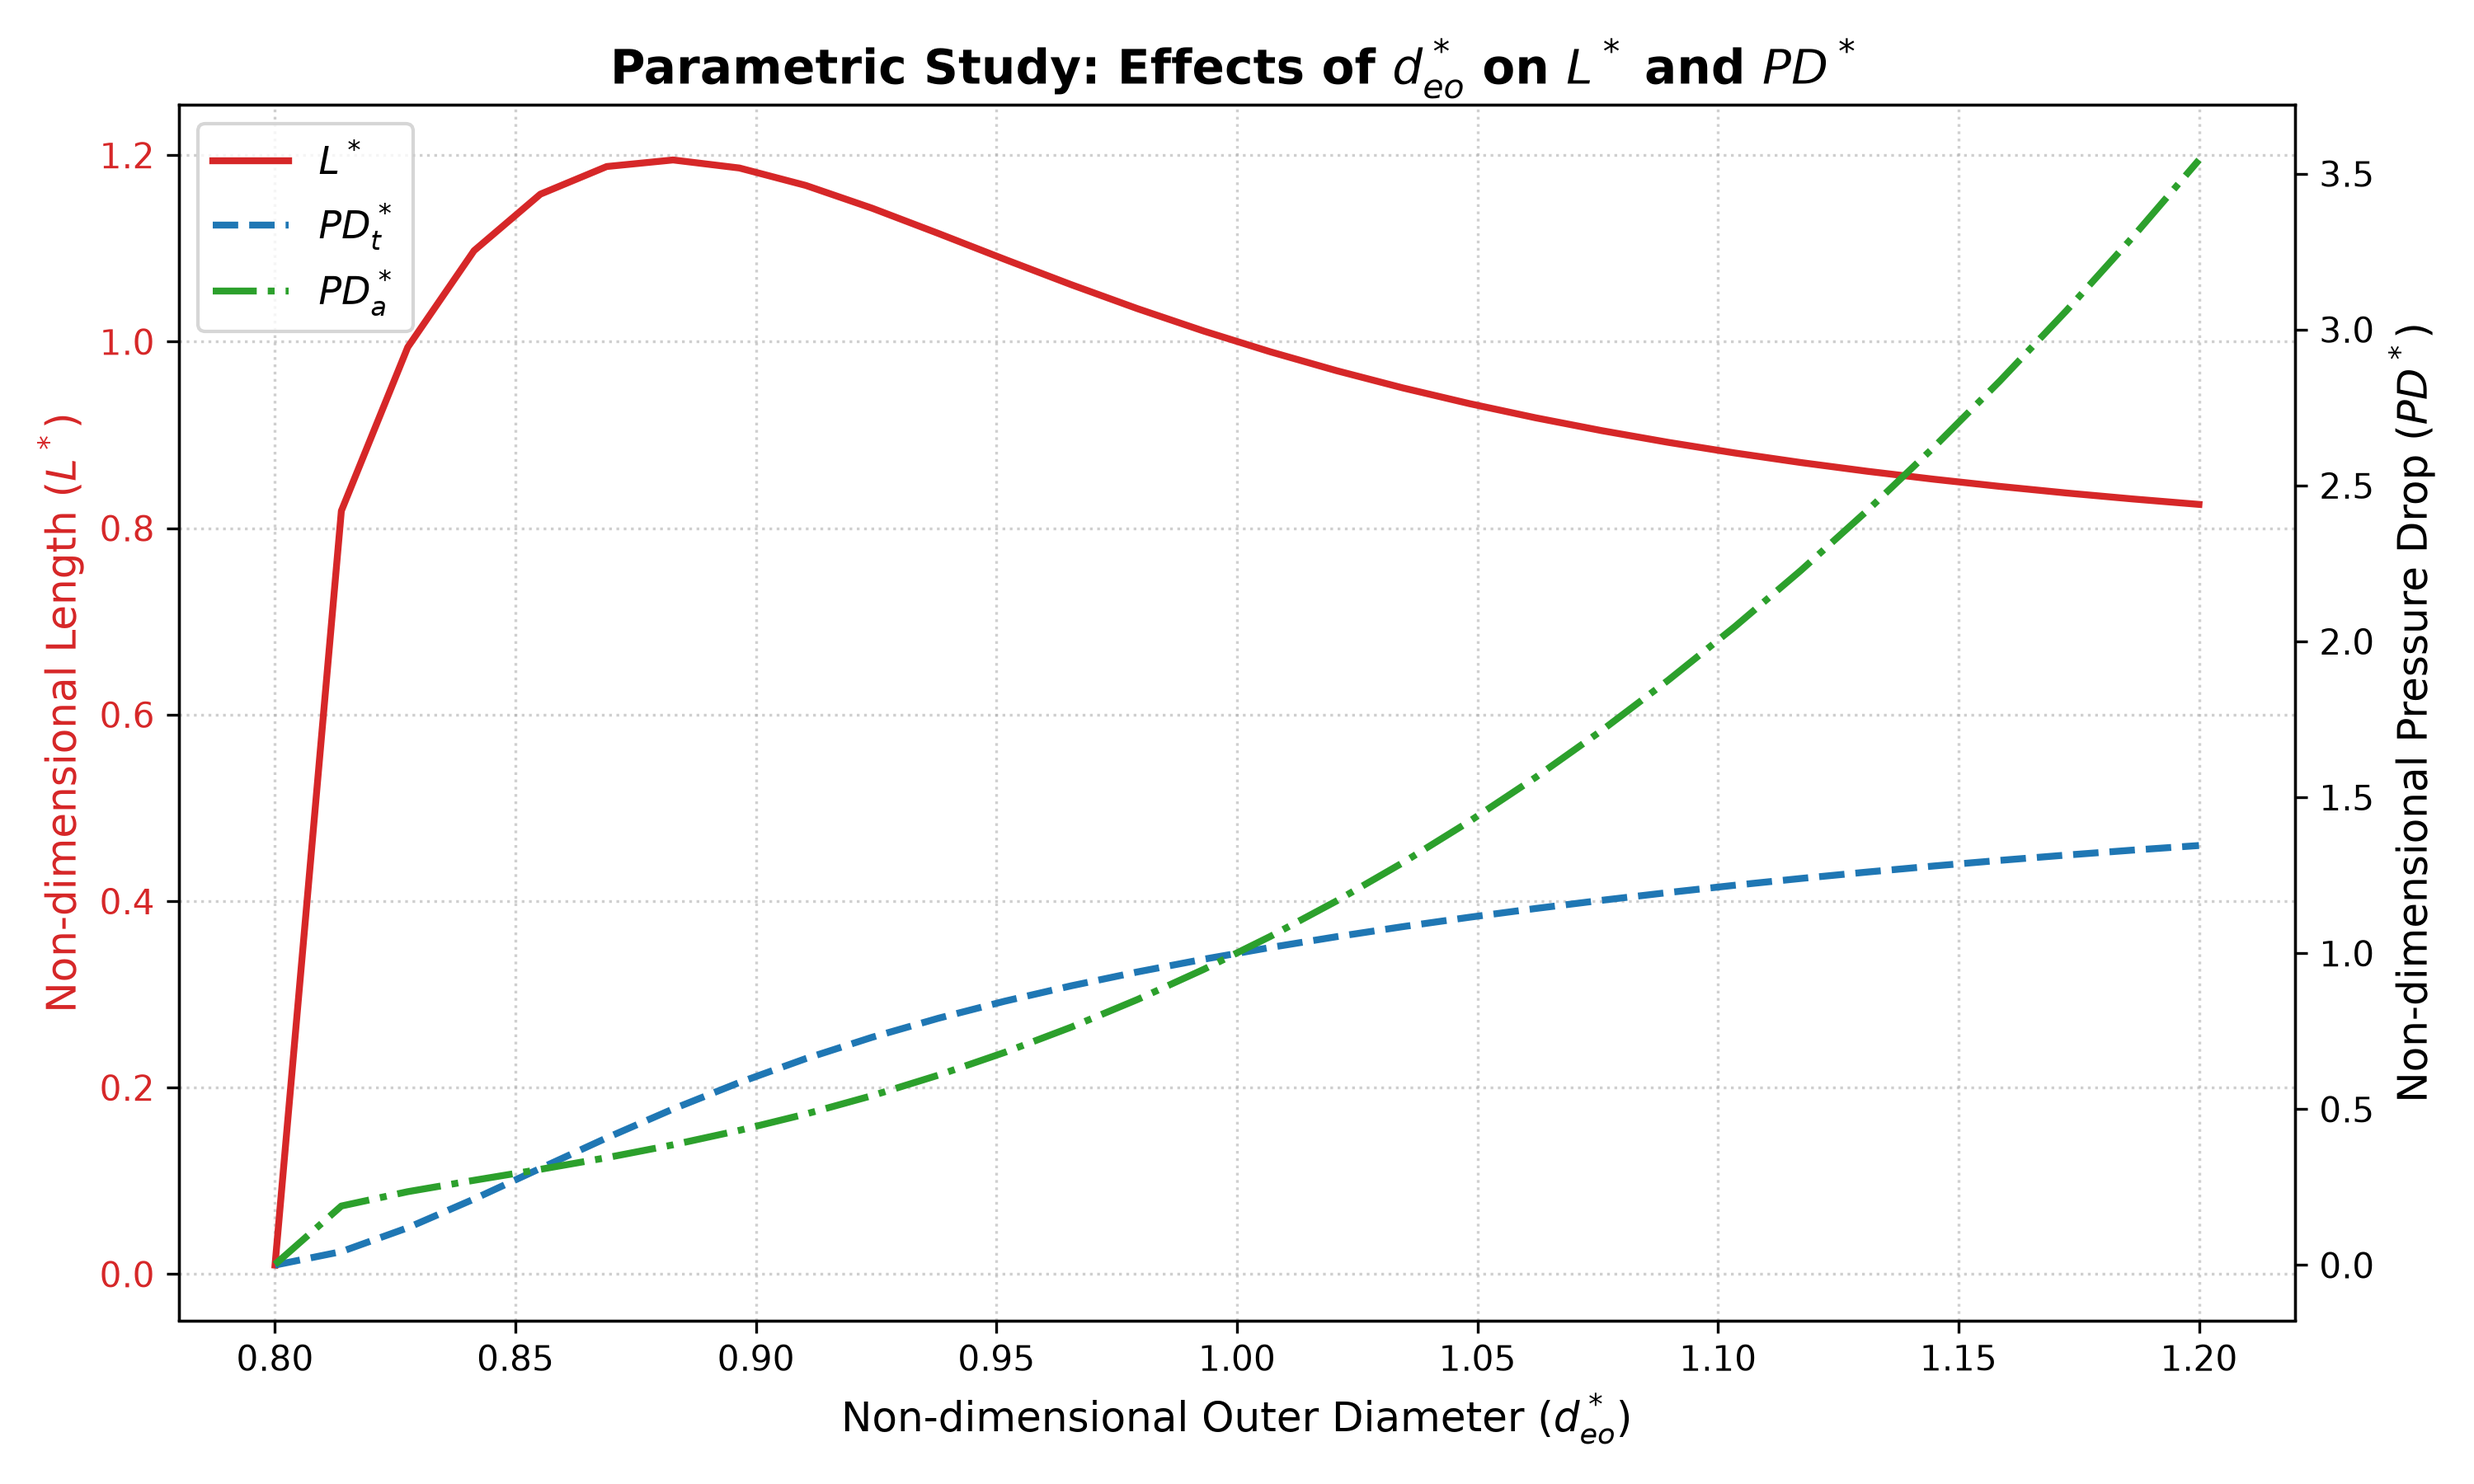
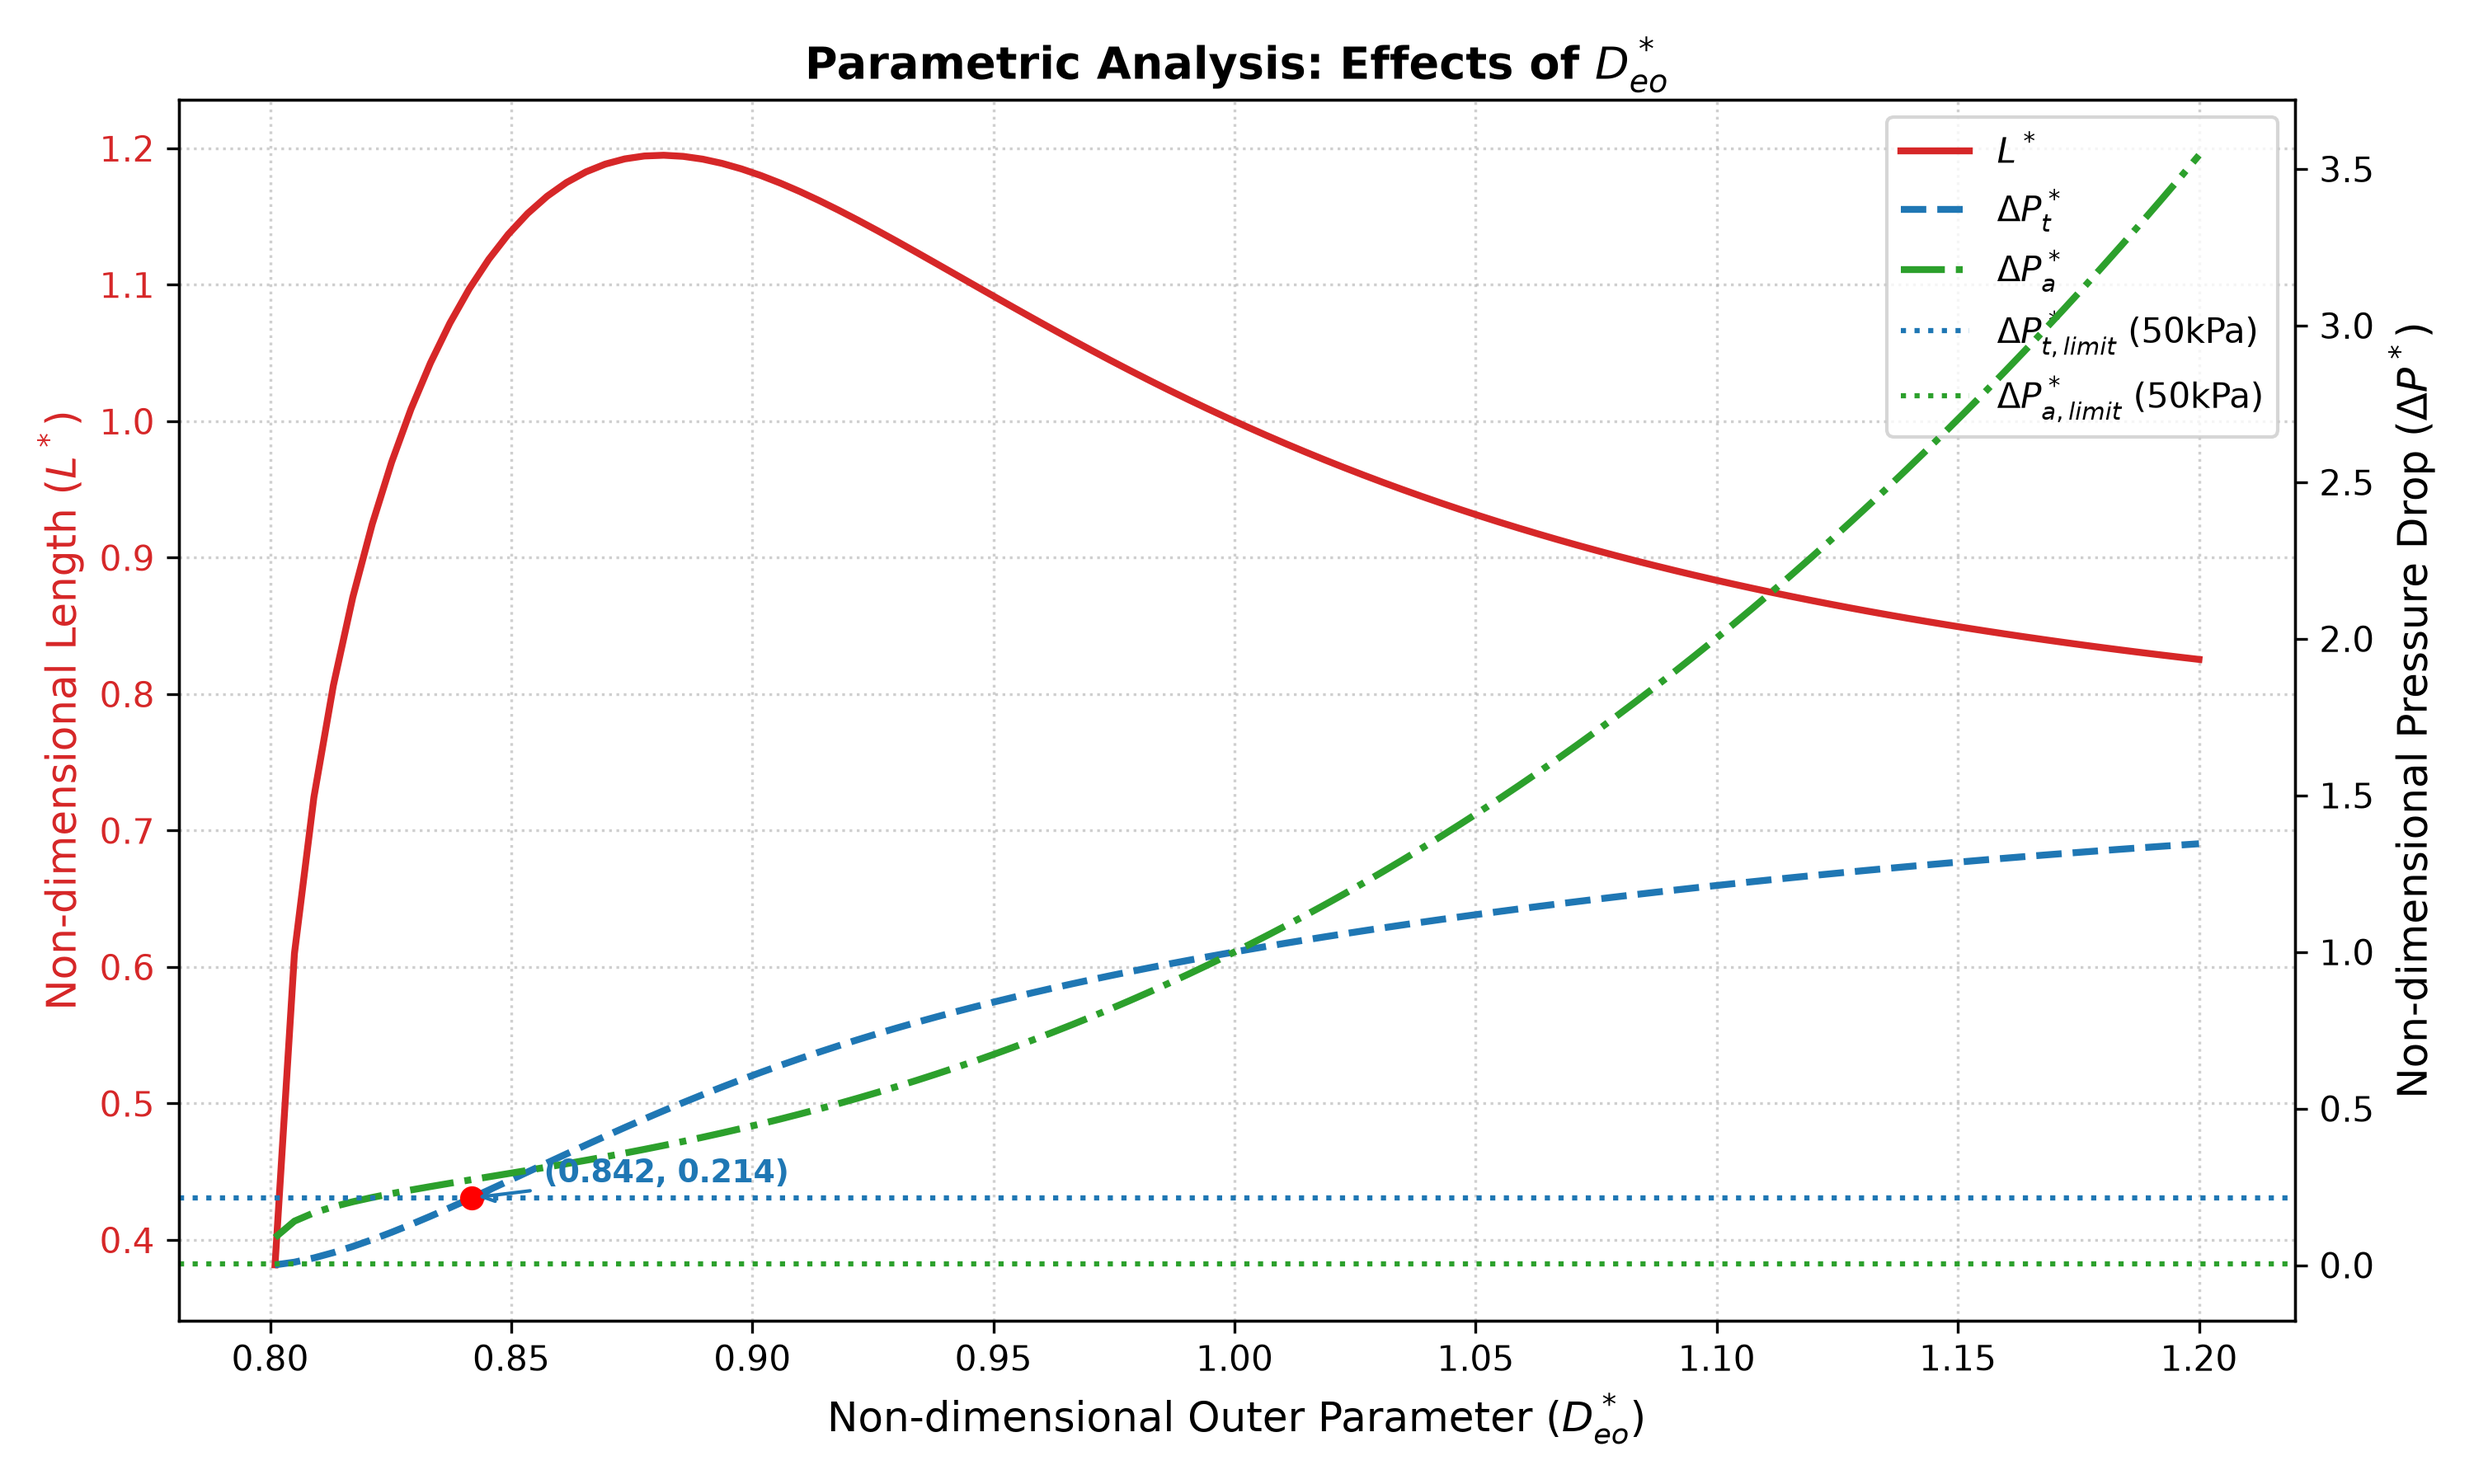
.

diff --git a/parametric_analysis.py b/parametric_analysis.py
@@ -3,7 +3,6 @@ import matplotlib.pyplot as plt
 import calculation_func as hxc
 import sum_length as ref
 
-d_eo_ref = hxc.d_eo_ref
 L_tot_ref = ref.L_tot_ref
 PD_t_ref = ref.PD_t_ref
 PD_a_ref = ref.PD_a_ref
@@ -11,53 +10,108 @@ PD_a_ref = ref.PD_a_ref
 PD_t_star_limit = 50000 / PD_t_ref
 PD_a_star_limit = 50000 / PD_a_ref
 
+def find_intersections(x_arr, y_arr, limit_val):
+    intersections = []
+    for i in range(len(x_arr) - 1):
+        y1, y2 = y_arr[i], y_arr[i+1]
+        if (y1 - limit_val) * (y2 - limit_val) <= 0 and y1 != y2:
+            x1, x2 = x_arr[i], x_arr[i+1]
+            x_int = x1 + (limit_val - y1) * (x2 - x1) / (y2 - y1)
+            intersections.append(x_int)
+    return intersections
+
+param_configs = {
+    'd_eo': {'name': 'D_{eo}', 'ref': hxc.d_eo_ref, 'range': (0.801, 1.2)},
+    'd_bi': {'name': 'D_{bi}', 'ref': hxc.d_bi_ref, 'range': (0.8, 1.2)},
+    'd_oi': {'name': 'D_{oi}', 'ref': hxc.d_oi_ref, 'range': (0.7, 1.2)},
+    'p':    {'name': 'p',        'ref': hxc.p_ref,    'range': (0.7, 1.2)},
+    'n_s':  {'name': 'N_s',      'ref': hxc.n_s_ref,  'range': (0.8, 1.2)}
+}
+
 N_points = 100
-d_eo_star_list = np.linspace(0.801, 1.2, N_points)
 
-L_star_list = []
-PD_t_star_list = []
-PD_a_star_list = []
 
-for d_eo_star in d_eo_star_list:
-    d_eo_val = d_eo_star * d_eo_ref
+for param_key, cfg in param_configs.items():
+    param_star_list = np.linspace(cfg['range'][0], cfg['range'][1], N_points)
     
-    L_tot, PD_t, PD_a, _, _, _, _, _, _ = hxc.run_simulation(
-        ref.N_segments, ref.X_h, ref.X_c,
-        hxc.d_bi_ref, hxc.d_ei_ref, d_eo_val, hxc.d_bo_ref,
-        hxc.n_s_ref, hxc.p_ref, hxc.d_oi_ref
-    )
+    L_star_list = []
+    PD_t_star_list = []
+    PD_a_star_list = []
     
-    # Calculate non-dimensional values
-    L_star_list.append(L_tot / L_tot_ref)
-    PD_t_star_list.append(PD_t / PD_t_ref)
-    PD_a_star_list.append(PD_a / PD_a_ref)
+    for val_star in param_star_list:
+        val_actual = val_star * cfg['ref']
+        
+        kwargs = {
+            'N_segments': ref.N_segments, 'X_h': ref.X_h, 'X_c': ref.X_c,
+            'd_bi': hxc.d_bi_ref, 'd_ei': hxc.d_ei_ref, 'd_eo': hxc.d_eo_ref, 
+            'd_bo': hxc.d_bo_ref, 'n_s_val': hxc.n_s_ref, 'p_val': hxc.p_ref, 
+            'd_oi': hxc.d_oi_ref
+        }
+        
+        if param_key == 'd_eo': kwargs['d_eo'] = val_actual
+        elif param_key == 'd_bi': kwargs['d_bi'] = val_actual
+        elif param_key == 'd_oi': kwargs['d_oi'] = val_actual
+        elif param_key == 'p':    kwargs['p_val'] = val_actual
+        elif param_key == 'n_s':  kwargs['n_s_val'] = val_actual
+        
+        L_tot, PD_t, PD_a, _, _, _, _, _, _ = hxc.run_simulation(
+            kwargs['N_segments'], kwargs['X_h'], kwargs['X_c'],
+            kwargs['d_bi'], kwargs['d_ei'], kwargs['d_eo'], kwargs['d_bo'],
+            kwargs['n_s_val'], kwargs['p_val'], kwargs['d_oi']
+        )
+        
+        L_star_list.append(L_tot / L_tot_ref)
+        PD_t_star_list.append(PD_t / PD_t_ref)
+        PD_a_star_list.append(PD_a / PD_a_ref)
 
-fig, ax1 = plt.subplots(figsize=(10, 6))
+    param_star_arr = np.array(param_star_list)
+    PD_t_star_arr = np.array(PD_t_star_list)
+    PD_a_star_arr = np.array(PD_a_star_list)
 
-color1 = 'tab:red'
-ax1.set_xlabel('Non-dimensional Outer Diameter ($D_{eo}^*$)', fontsize=12)
-ax1.set_ylabel('Non-dimensional Length ($L^*$)', color=color1, fontsize=12)
-line1 = ax1.plot(d_eo_star_list, L_star_list, label='$L^*$', color=color1, linewidth=2)
-ax1.tick_params(axis='y', labelcolor=color1)
-ax1.grid(True, linestyle=':', alpha=0.6)
+    t_intersections = find_intersections(param_star_arr, PD_t_star_arr, PD_t_star_limit)
+    a_intersections = find_intersections(param_star_arr, PD_a_star_arr, PD_a_star_limit)
 
-ax2 = ax1.twinx()
-color2 = 'tab:blue'
-color3 = 'tab:green'
-ax2.set_ylabel('Non-dimensional Pressure Drop ($∆P^*$)', fontsize=12)
-line2 = ax2.plot(d_eo_star_list, PD_t_star_list, label='$∆P_t^*$', color=color2, linewidth=2, linestyle='--')
-line3 = ax2.plot(d_eo_star_list, PD_a_star_list, label='$∆P_a^*$', color=color3, linewidth=2, linestyle='-.')
+    fig, ax1 = plt.subplots(figsize=(10, 6))
 
-# Add limit lines for pressure drop 50 kPa
-line_lim_t = ax2.axhline(y=PD_t_star_limit, color=color2, linestyle=':', linewidth=1.5, label='$∆P_{t,limit}^*$ (50kPa)')
-line_lim_a = ax2.axhline(y=PD_a_star_limit, color=color3, linestyle=':', linewidth=1.5, label='$∆P_{a,limit}^*$ (50kPa)')
+    color1 = 'tab:red'
+    ax1.set_xlabel(f"Non-dimensional Outer Parameter (${cfg['name']}^*$)", fontsize=12)
+    ax1.set_ylabel('Non-dimensional Length ($L^*$)', color=color1, fontsize=12)
+    line1 = ax1.plot(param_star_list, L_star_list, label='$L^*$', color=color1, linewidth=2)
+    ax1.tick_params(axis='y', labelcolor=color1)
+    ax1.grid(True, linestyle=':', alpha=0.6)
 
-lines = line1 + line2 + line3 + [line_lim_t, line_lim_a]
-labels = [l.get_label() for l in lines]
-ax1.legend(lines, labels, loc='upper right', fontsize=10)
+    ax2 = ax1.twinx()
+    color2 = 'tab:blue'
+    color3 = 'tab:green'
+    ax2.set_ylabel('Non-dimensional Pressure Drop ($ΔP^*$)', fontsize=12)
+    line2 = ax2.plot(param_star_list, PD_t_star_list, label='$ΔP_t^*$', color=color2, linewidth=2, linestyle='--')
+    line3 = ax2.plot(param_star_list, PD_a_star_list, label='$ΔP_a^*$', color=color3, linewidth=2, linestyle='-.')
 
-plt.title('Parametric Analysis: Effects of $D_{eo}^*$ ', fontsize=13, fontweight='bold')
-plt.tight_layout()
+    line_lim_t = ax2.axhline(y=PD_t_star_limit, color='tab:blue', linestyle=':', linewidth=1.5, label='$ΔP_{t,limit}^*$ (50kPa)')
+    line_lim_a = ax2.axhline(y=PD_a_star_limit, color='tab:green', linestyle=':', linewidth=1.5, label='$ΔP_{a,limit}^*$ (50kPa)')
+    
+    for x_int in t_intersections:
+        ax2.plot(x_int, PD_t_star_limit, 'ro', markersize=6)
+        ax2.annotate(f'({x_int:.3f}, {PD_t_star_limit:.3f})',
+                     xy=(x_int, PD_t_star_limit),
+                     xytext=(x_int + 0.015, PD_t_star_limit + 0.05),
+                     fontsize=9, fontweight='bold', color=color2,
+                     arrowprops=dict(arrowstyle='->', color=color2, lw=1))
 
-plt.savefig('plot_param_D_epng', dpi=300)
-plt.show()
+    for x_int in a_intersections:
+        ax2.plot(x_int, PD_a_star_limit, 'go', markersize=6)
+        ax2.annotate(f'({x_int:.3f}, {PD_a_star_limit:.3f})',
+                     xy=(x_int, PD_a_star_limit),
+                     xytext=(x_int + 0.015, PD_a_star_limit + 0.05),
+                     fontsize=9, fontweight='bold', color=color3,
+                     arrowprops=dict(arrowstyle='->', color=color3, lw=1))
+
+    lines = line1 + line2 + line3 + [line_lim_t, line_lim_a]
+    labels = [l.get_label() for l in lines]
+    ax1.legend(lines, labels, loc='upper right', fontsize=10)
+
+    plt.title(f"Parametric Analysis: Effects of ${cfg['name']}^*$", fontsize=13, fontweight='bold')
+    plt.tight_layout()
+
+    plt.savefig(f"plot_param_{param_key}.png", dpi=300)
+    plt.show()
